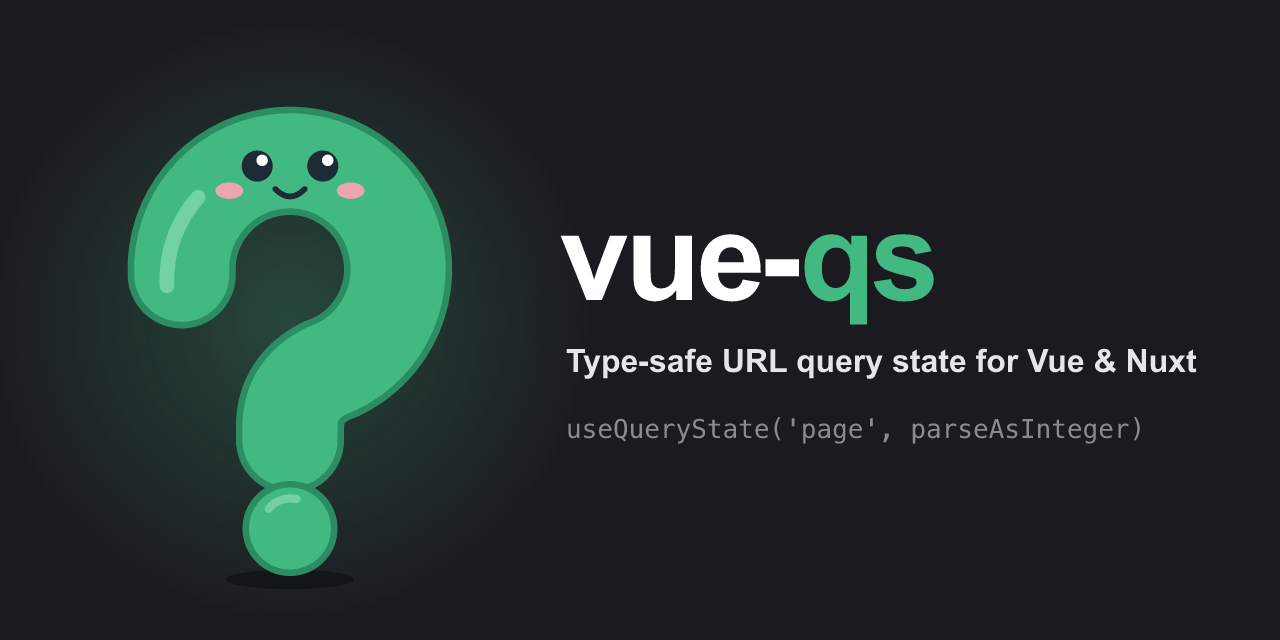
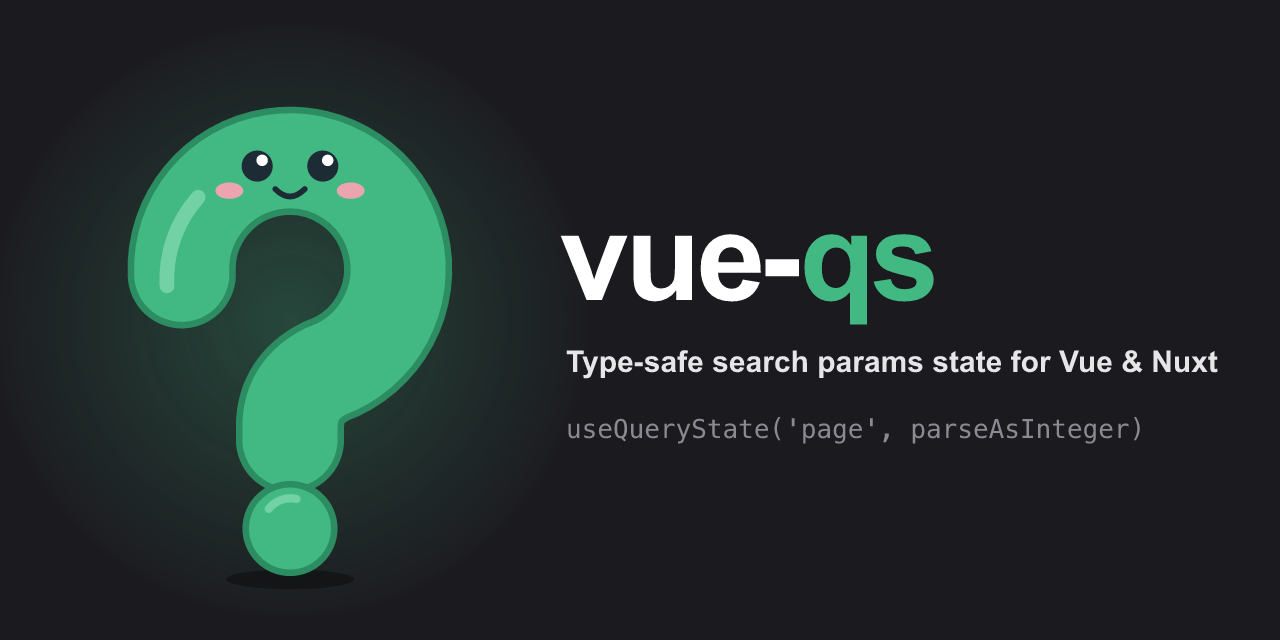
docs: use one tagline across the README, docs and social card

Changed region(s): [[0.4375, 0.5312, 0.9688, 0.5938]]

diff --git a/docs/.vitepress/config.ts b/docs/.vitepress/config.ts
@@ -3,7 +3,7 @@ import { defineConfig, type HeadConfig } from 'vitepress';
 // https://vitepress.dev/reference/site-config
 const base = process.env.DOCS_BASE ?? '/';
 const siteUrl = 'https://iamsomraj.github.io/vue-qs/';
-const siteDescription = 'Type-safe search params state manager for Vue 3 - a port of nuqs';
+const siteDescription = 'Type-safe search params state for Vue 3 and Nuxt, a port of nuqs';
 const ogImage = `${siteUrl}og-image.png`;
 
 export default defineConfig({
@@ -29,7 +29,10 @@ export default defineConfig({
     ['meta', { property: 'og:image:height', content: '640' }],
     [
       'meta',
-      { property: 'og:image:alt', content: 'vue-qs: type-safe search params state for Vue' },
+      {
+        property: 'og:image:alt',
+        content: 'vue-qs: type-safe search params state for Vue and Nuxt',
+      },
     ],
     ['meta', { name: 'twitter:card', content: 'summary_large_image' }],
     ['meta', { name: 'twitter:image', content: ogImage }],

diff --git a/README.md b/README.md
@@ -1,6 +1,6 @@
 # vue-qs
 
-![vue-qs: type-safe URL query state for Vue and Nuxt, with its question-mark mascot](https://raw.githubusercontent.com/iamsomraj/vue-qs/main/docs/public/og-image.png)
+![vue-qs: type-safe search params state for Vue and Nuxt, with its question-mark mascot](https://raw.githubusercontent.com/iamsomraj/vue-qs/main/docs/public/og-image.png)
 
 [![Mentioned in Awesome Vue](https://awesome.re/mentioned-badge.svg)](https://github.com/vuejs/awesome-vue#state-management)
 [![npm version](https://img.shields.io/npm/v/vue-qs.svg)](https://www.npmjs.com/package/vue-qs)
@@ -10,7 +10,7 @@
 [![GitHub Discussions](https://img.shields.io/github/discussions/iamsomraj/vue-qs)](https://github.com/iamsomraj/vue-qs/discussions)
 [![license](https://img.shields.io/badge/license-MIT-blue.svg)](LICENSE)
 
-Type-safe search params state manager for Vue 3. A port of [nuqs](https://nuqs.dev)
+Type-safe search params state for Vue 3 and Nuxt. A port of [nuqs](https://nuqs.dev)
 that uses Vue idioms: writable refs, `v-model`, reactive objects and a plugin.
 
 📖 **Documentation**: [https://iamsomraj.github.io/vue-qs/](https://iamsomraj.github.io/vue-qs/)

diff --git a/docs/zh/index.md b/docs/zh/index.md
@@ -1,11 +1,11 @@
 ---
 layout: home
 title: vue-qs
-titleTemplate: '类型安全的 Vue URL 查询参数状态管理'
-description: 'vue-qs：类型安全的 Vue 3 URL 查询参数状态管理库，nuqs 的 Vue 移植版本。'
+titleTemplate: '类型安全的 Vue 与 Nuxt URL 查询参数状态管理'
+description: 'vue-qs：类型安全的 Vue 3 与 Nuxt URL 查询参数状态管理库，nuqs 的 Vue 移植版本。'
 hero:
   name: vue-qs
-  text: 类型安全的 Vue URL 查询参数状态管理
+  text: 类型安全的 Vue 与 Nuxt URL 查询参数状态管理
   tagline: nuqs 的 Vue 3 移植版本。已收录于 Awesome Vue。
   image:
     src: /mascot.svg

diff --git a/docs/index.md b/docs/index.md
@@ -1,11 +1,11 @@
 ---
 layout: home
 title: vue-qs
-titleTemplate: 'Type-safe search params state for Vue 3'
+titleTemplate: 'Type-safe search params state for Vue and Nuxt'
 description: 'vue-qs is a type-safe search params state manager for Vue 3 and Nuxt, a port of nuqs. Store state in the URL with writable refs, parsers and batched updates.'
 hero:
   name: vue-qs
-  text: Type-safe search params state for Vue
+  text: Type-safe search params state for Vue and Nuxt
   tagline: A port of nuqs for Vue 3. Store state in the URL with writable refs, parsers and batched updates. Listed in Awesome Vue.
   image:
     src: /mascot.svg
